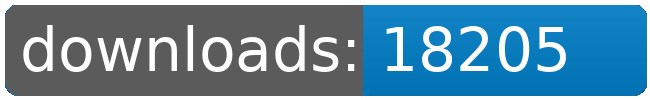
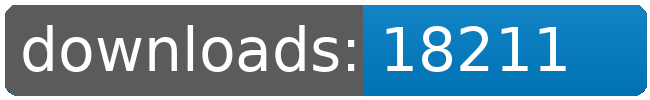
dl log written

Changed region(s): [[0.7692, 0.24, 0.8923, 0.72]]

diff --git a/README.md b/README.md
@@ -32,8 +32,8 @@
 		<td>2046</td>
 		<td>2078</td>
 		<td>2104</td>
-		<td>2109</td>
-		<td>+ 5</td>
+		<td>2113</td>
+		<td>+ 9</td>
 	</tr>
 	<tr>
 		<td>Fundamental.Outfit.Expansion</td>
@@ -43,8 +43,8 @@
 		<td>2799</td>
 		<td>2836</td>
 		<td>2872</td>
-		<td>2877</td>
-		<td>+ 5</td>
+		<td>2879</td>
+		<td>+ 7</td>
 	</tr>
 	<tr>
 		<td>Jaws</td>
@@ -109,8 +109,8 @@
 		<td></td>
 		<td></td>
 		<td></td>
-		<td>18205</td>
-		<td>40</td>
+		<td>18211</td>
+		<td>46</td>
 	</tr>
 </table>
 </sub></sup>
@@ -135,8 +135,8 @@
 		<td>2799</td>
 		<td>2836</td>
 		<td>2872</td>
-		<td>2877</td>
-		<td>+ 5</td>
+		<td>2879</td>
+		<td>+ 7</td>
 	</tr>
 	<tr>
 		<td>Louise.Conglomerate.Shipyards</td>
@@ -190,8 +190,8 @@
 		<td>2046</td>
 		<td>2078</td>
 		<td>2104</td>
-		<td>2109</td>
-		<td>+ 5</td>
+		<td>2113</td>
+		<td>+ 9</td>
 	</tr>
 	<tr>
 		<td>Jaws</td>
@@ -223,8 +223,8 @@
 		<td></td>
 		<td></td>
 		<td></td>
-		<td>18205</td>
-		<td>40</td>
+		<td>18211</td>
+		<td>46</td>
 	</tr>
 </table>
 </sub></sup>
